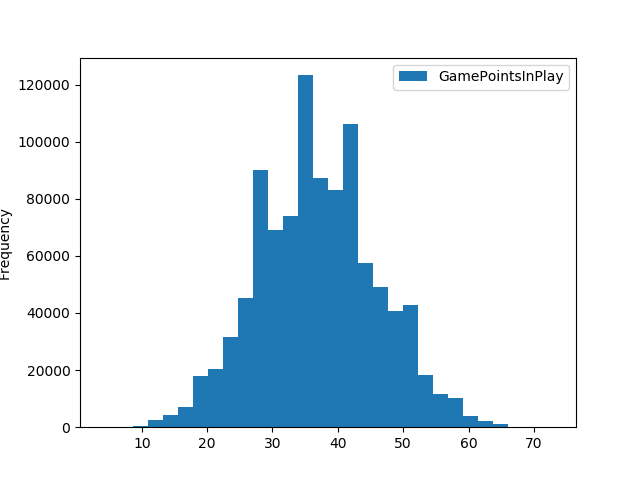
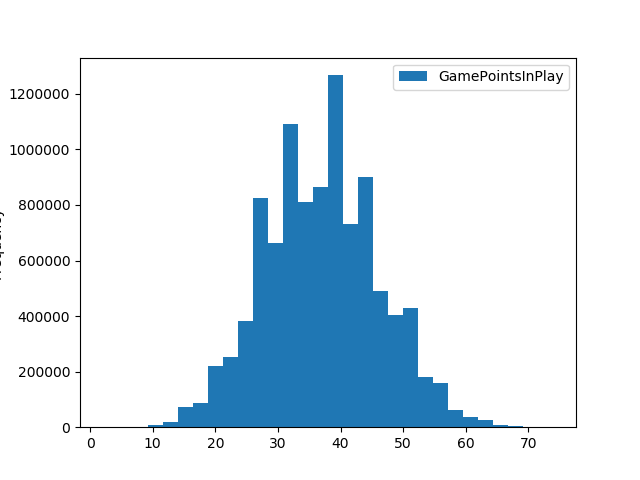
ran with more sims

diff --git a/AvgGamePoints.py b/AvgGamePoints.py
@@ -1,18 +1,20 @@
 from CardDeck import PitchDeck
 import pandas as pd
+from tqdm import tqdm
 import matplotlib.pyplot as plt
+
 
 gameResults = []
 
+for i in tqdm(range(10000000)):
 
-for i in range(10):
-
-    deck = PitchDeck(printing=True)
+    deck = PitchDeck(printing=False)
 
     deck.shuffle()
     deck.deal()
     deck.bid()
     deck.exchange()
+
     hands = deck.finalHands
 
     gamePointsInPlay = 0
@@ -21,6 +23,7 @@ for i in range(10):
             gamePointsInPlay += card.gamePoints
     gameResults.append(gamePointsInPlay)
     #print(gamePointsInPlay)
+
 df = pd.DataFrame(gameResults, columns=['GamePointsInPlay'])
 print(df.describe())
 
